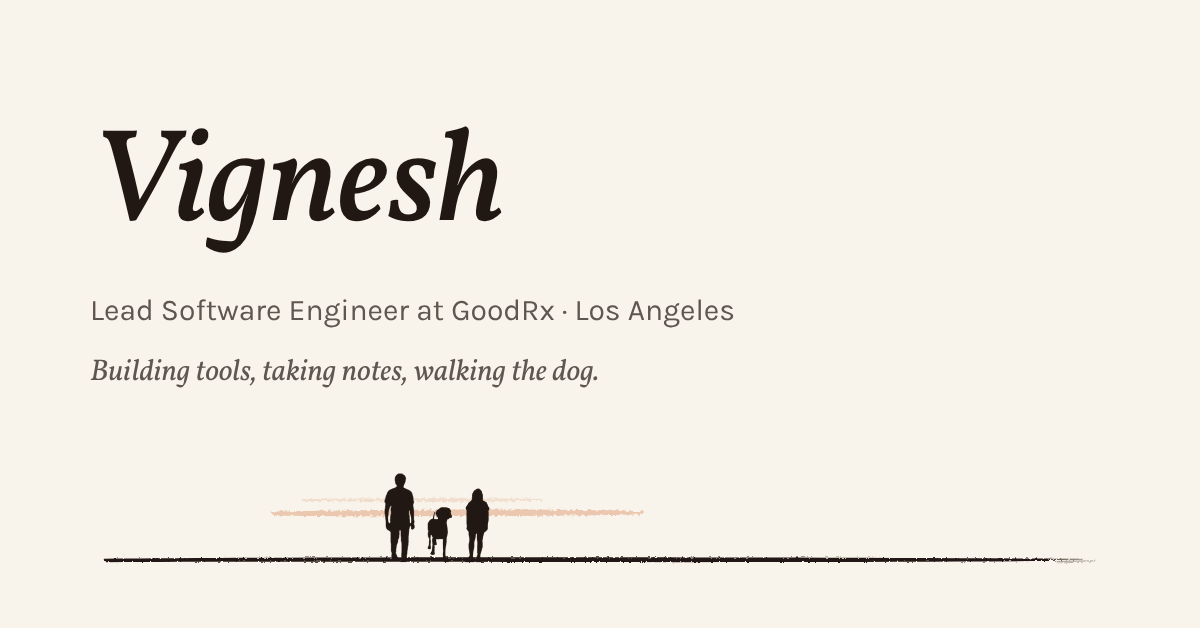
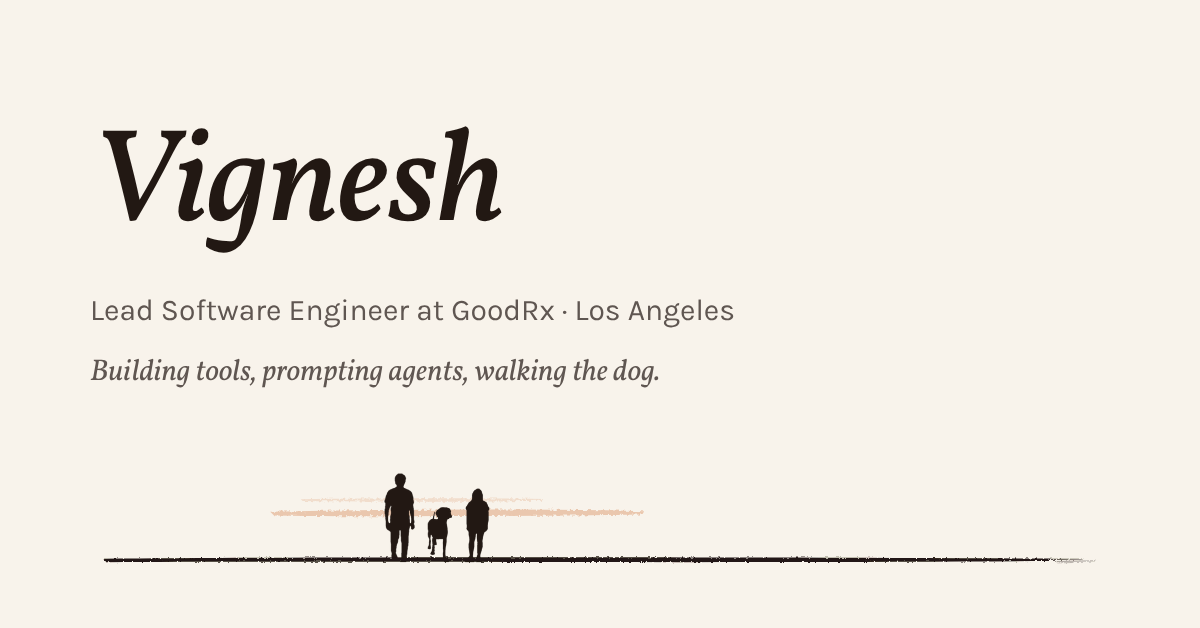
Tagline: building tools, prompting agents, walking the dog
Updated on the homepage masthead and re-rendered into the share card.

Claude-Session: https://claude.ai/code/session_01UDN1K62KJiUcGEFtDfNhur

Changed region(s): [[0.2158, 0.5748, 0.555, 0.6354]]

diff --git a/index.html b/index.html
@@ -171,7 +171,7 @@
           >
         </p>
         <p class="location">Los Angeles</p>
-        <p class="aside">Building tools, taking notes, walking the dog.</p>
+        <p class="aside">Building tools, prompting agents, walking the dog.</p>
       </header>
 
       <nav class="links" aria-label="External profiles">
